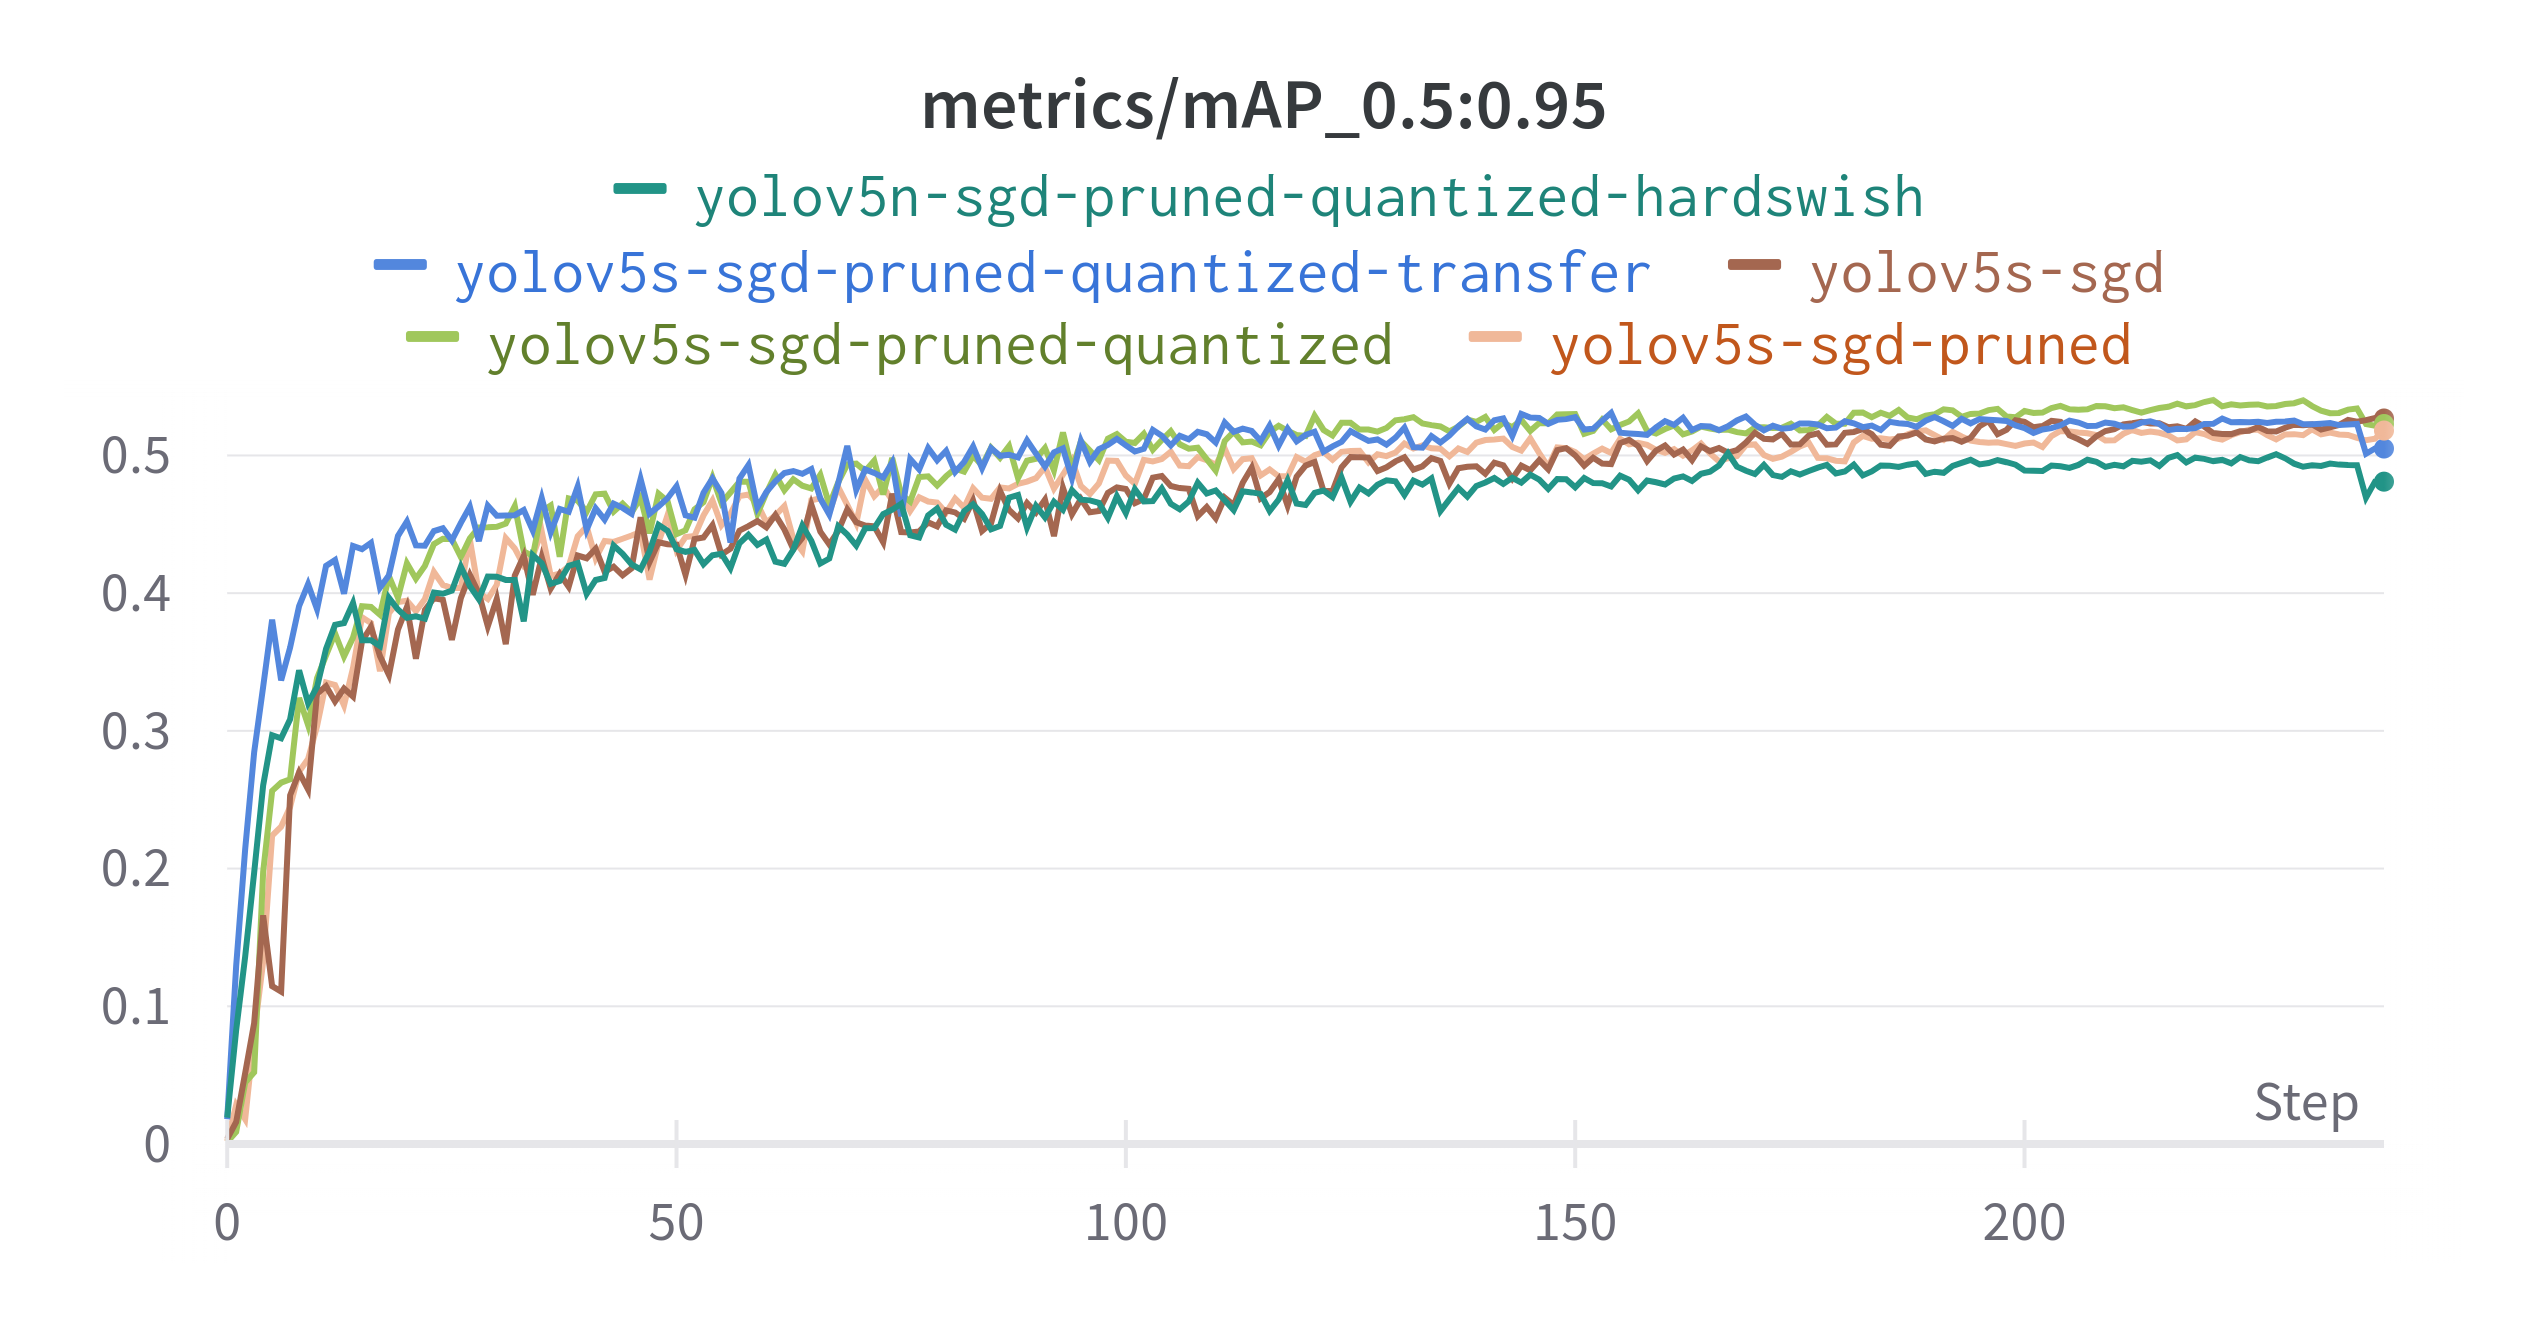
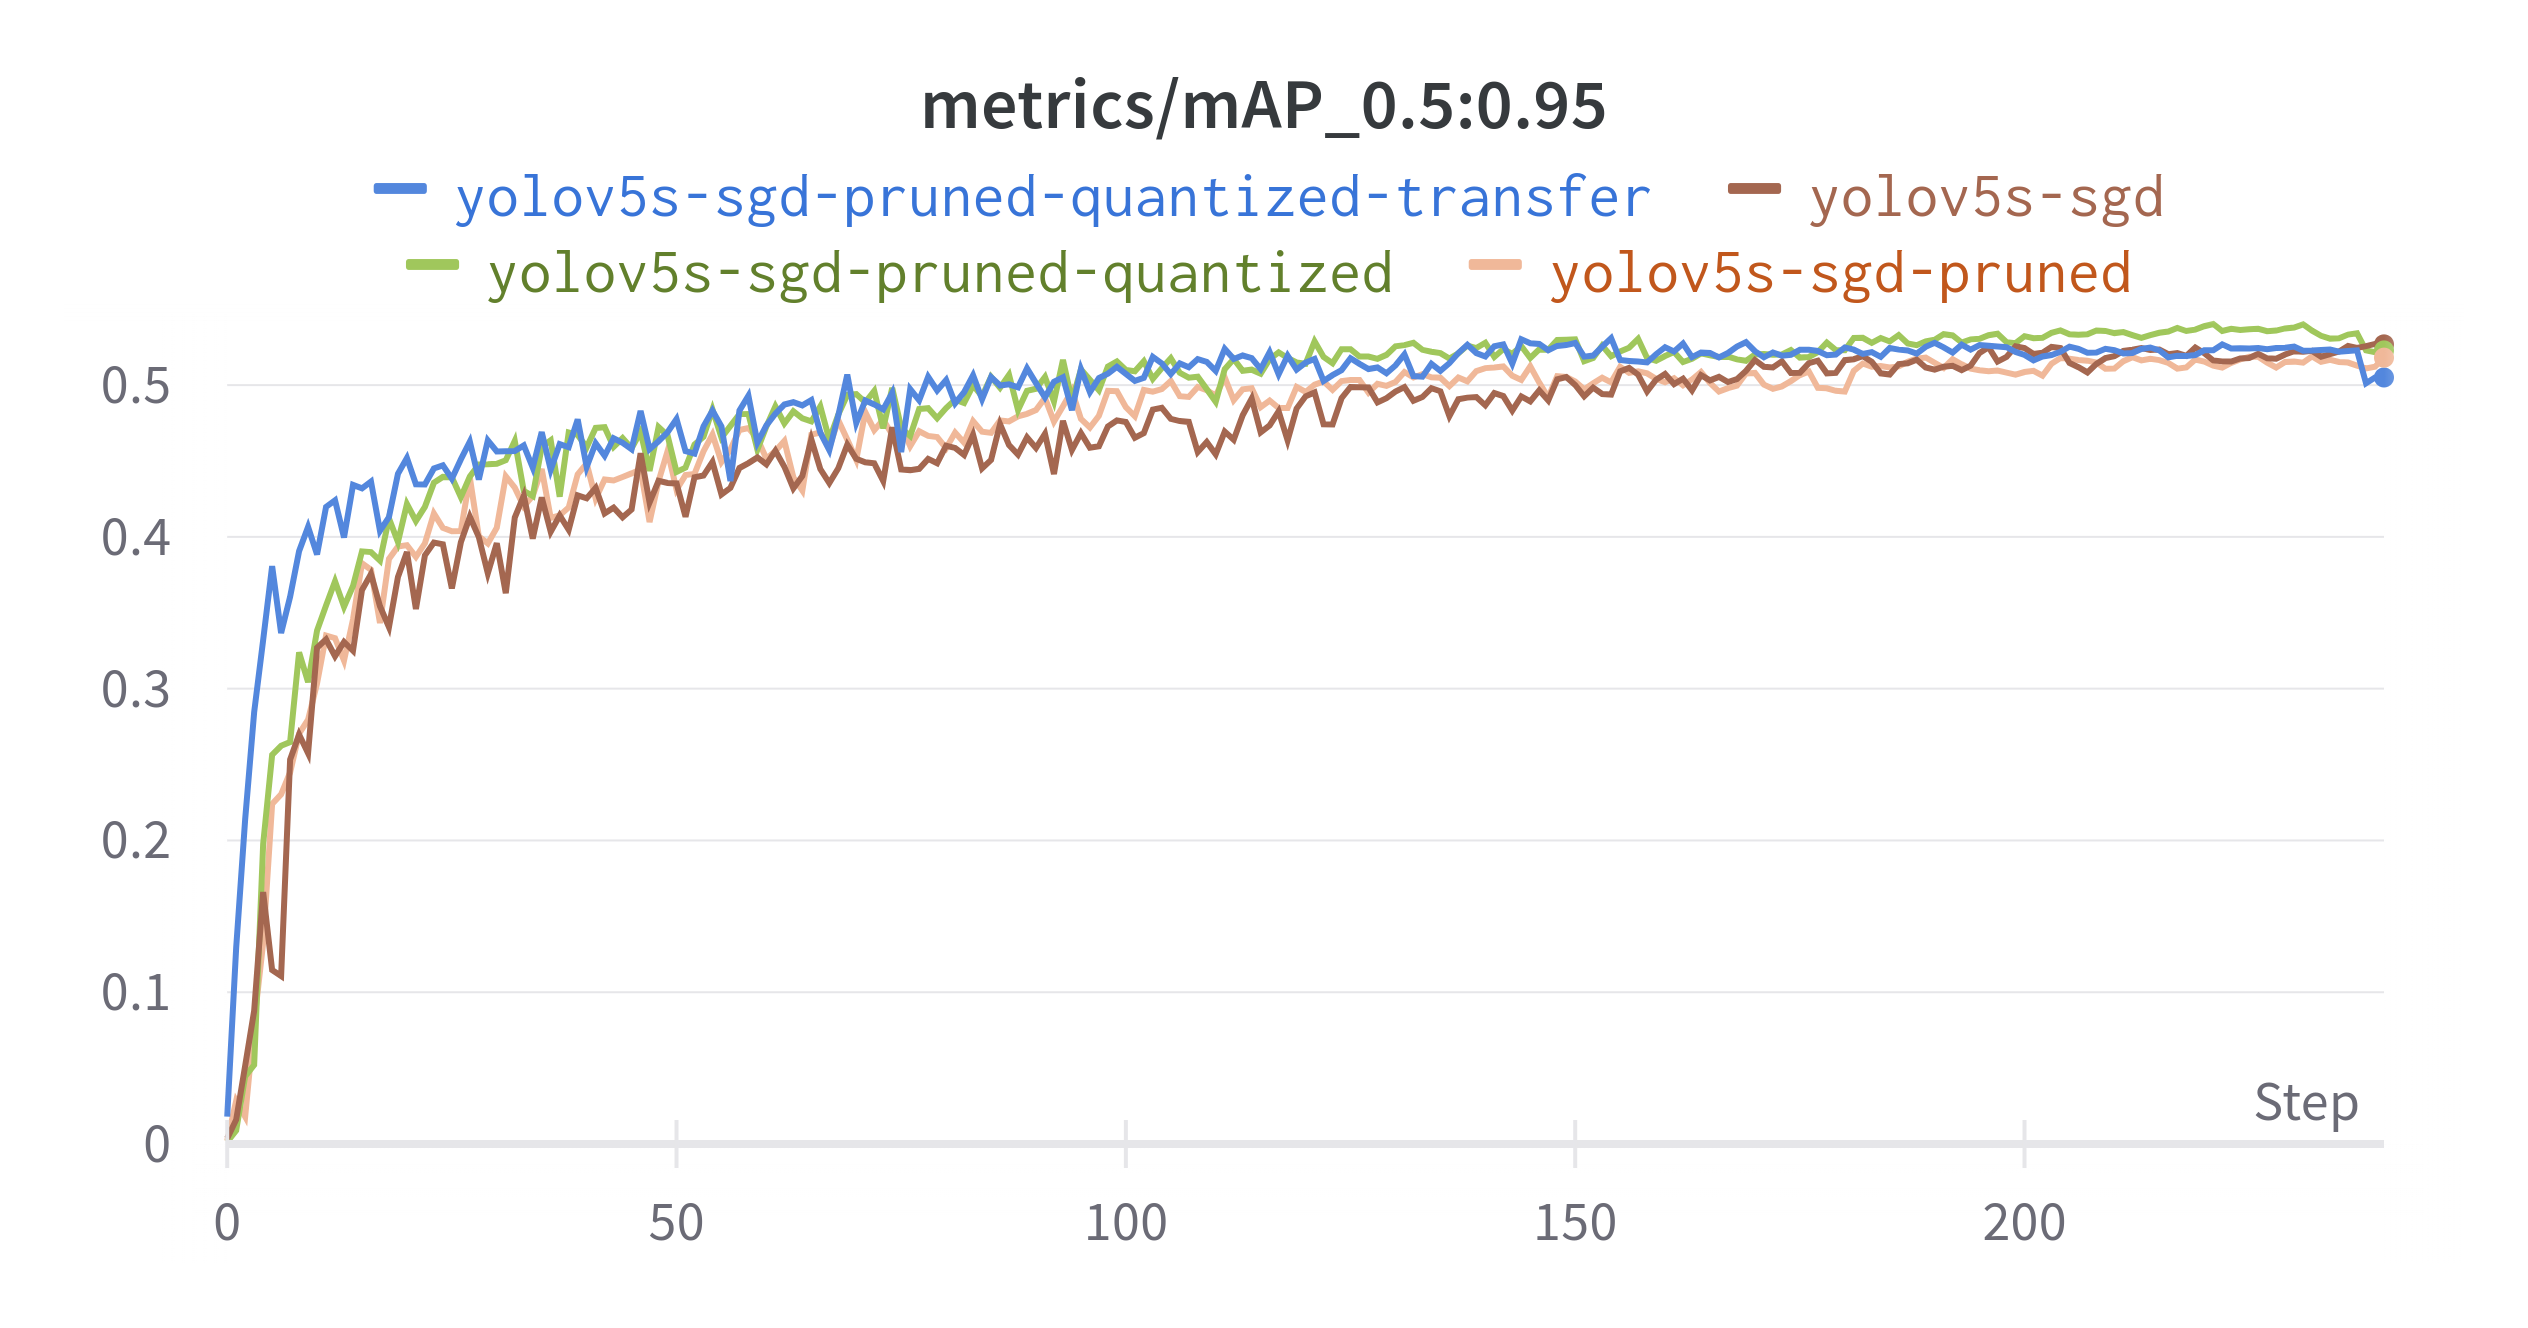
update train

diff --git a/content/portfolio/supercharging_yolov5_180_fps_cpu/index.md b/content/portfolio/supercharging_yolov5_180_fps_cpu/index.md
@@ -218,11 +218,24 @@ The only change here is the `--recipe` and the `--name` argument.
 
 `--recipe` tells the training script to use a sparsification recipe for the YOLOv5-S model.
 In this case we are using the `yolov5s.pruned.md` recipe which prunes the model as it trains.
+You can change how aggressive your model is pruned by modifying the `yolov5s.pruned.md` recipe.
+
+Let's run the `train.py` for all cases. We are interested to compare
+
++ YOLOv5-S Baseline
++ YOLOv5-S Pruned
++ YOLOv5-S Pruned + Quantized
++ YOLOv5-S Transfer Learning (Fine-tuning on an already sparsified model)
 
 
+
+I listed all commands I used to train all models on the [README](https://github.com/dnth/yolov5-deepsparse-blogpost) of my repo.
+
+Once the training is done, we have a nice visualization of the metrics on Wandb that compares the mAP.
 
 {{< figure_resizing src="mAP.png">}}
 
+From the graph, it looks like the YOLOv5-S pruned+quantized model performed the best on the mAP.
 View all of the training metrics on Wandb [here](https://wandb.ai/dnth/yolov5-deepsparse).
 
 ### ⛳ Baseline Inference
